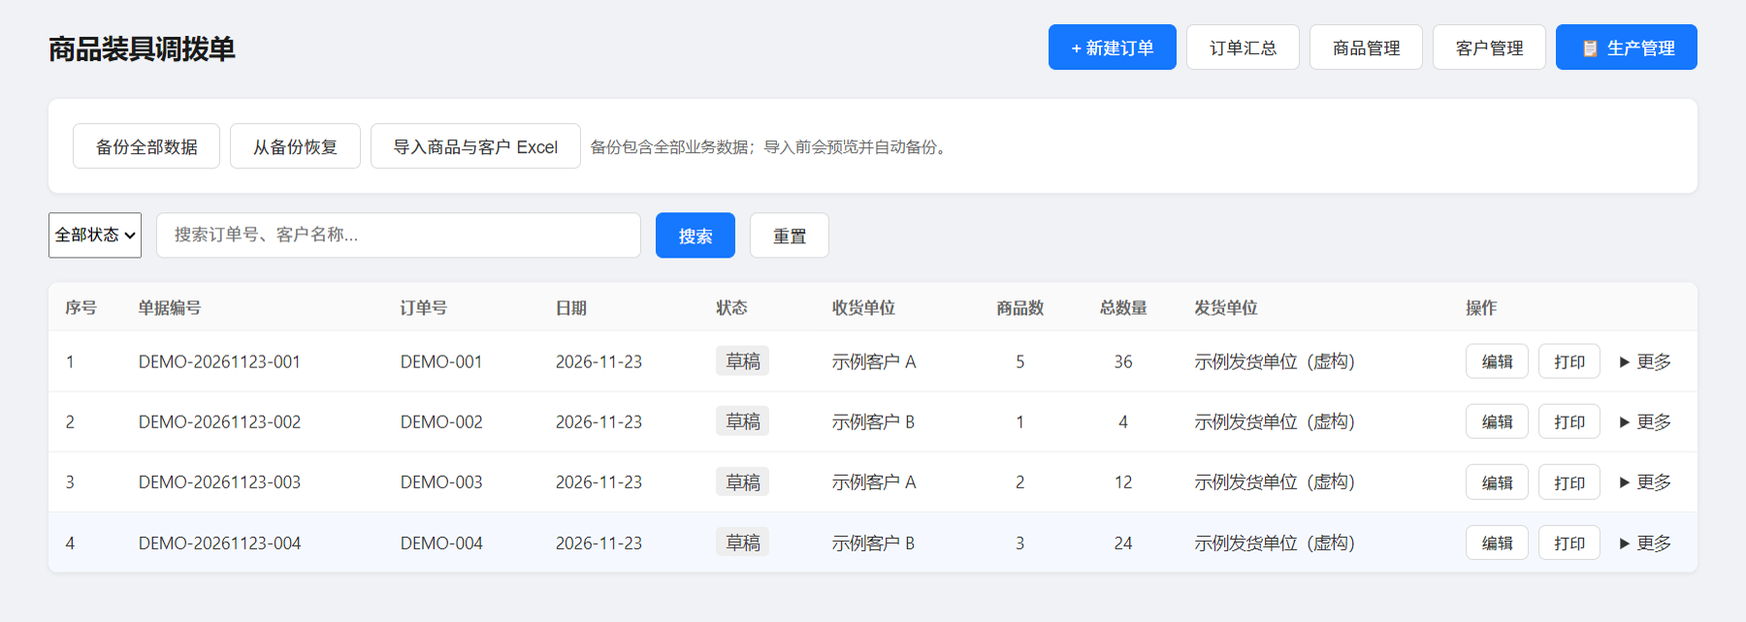
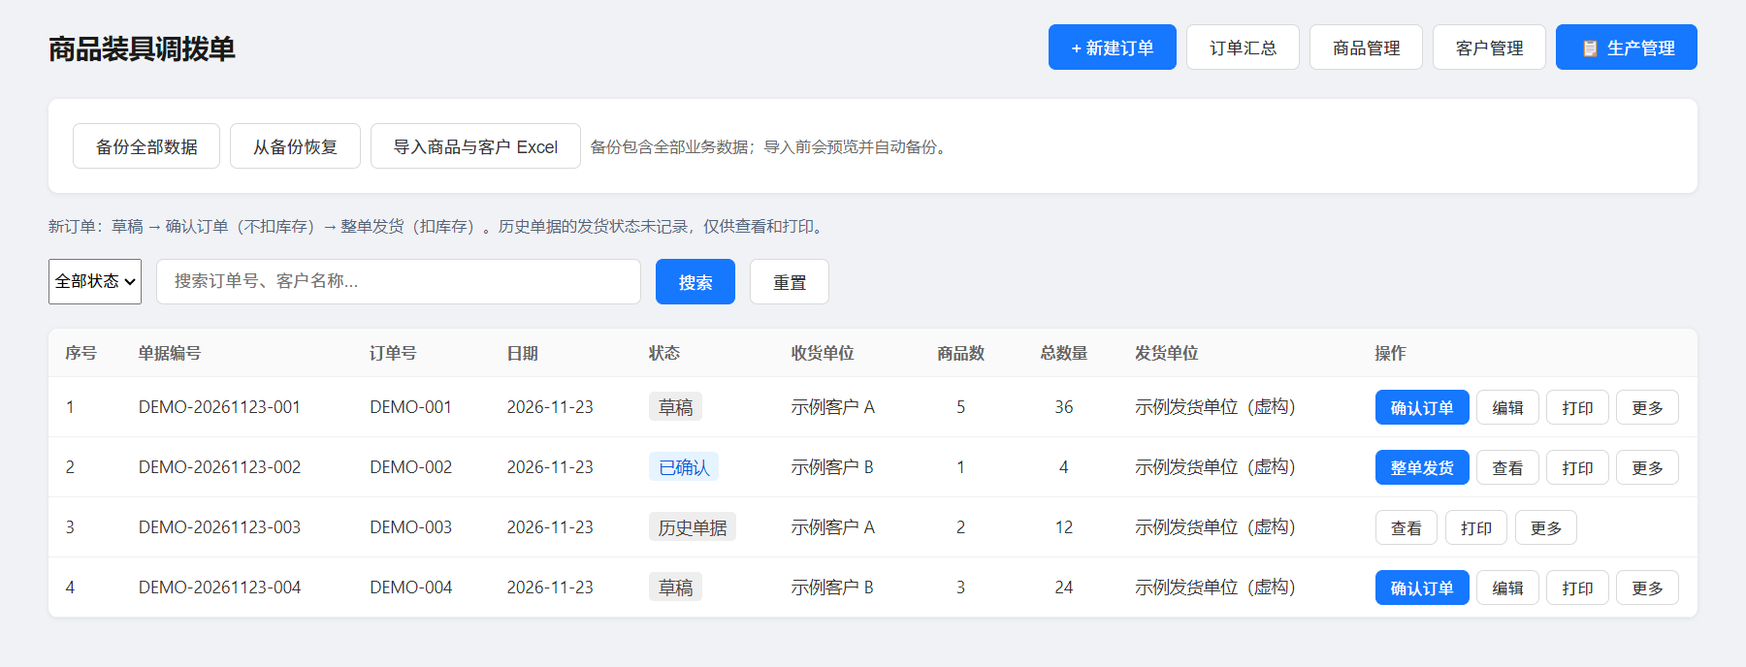
fix: show full order details and make status actions visible

diff --git a/src/pages/OrderList.tsx b/src/pages/OrderList.tsx
@@ -1,6 +1,7 @@
 import { orderStatusLabels } from '../../electron/order-status'
 import type { OrderStatus } from '../../electron/order-status'
 import OrderActionDialog from '../components/OrderActionDialog'
+import OrderMoreDialog from '../components/OrderMoreDialog'
 import React, { useEffect, useState, useCallback } from 'react'
 import { useNavigate } from 'react-router-dom'
 import { fetchOrders, removeOrder } from '../utils/ipc'
@@ -16,6 +17,7 @@ const OrderList: React.FC = () => {
   const [search, setSearch] = useState('')
   const [statusFilter, setStatusFilter] = useState('')
   const [action, setAction] = useState<{ order: Order; target: OrderStatus | 'history' } | null>(null)
+  const [moreOrder, setMoreOrder] = useState<Order | null>(null)
   const [archive, setArchive] = useState(0)
   const [deleteTarget, setDeleteTarget] = useState<Order | null>(null)
 
@@ -85,6 +87,7 @@ const OrderList: React.FC = () => {
 
       <BackupControls />
       {archive > 0 && <p className="error-message">保留了 {archive} 条旧版备用库存记录，尚未自动合并，请核对后通过生产库存的期初/入库操作录入。在用库存与订单发货均以生产库存为准。</p>}
+      <p className="order-list-guide">新订单：草稿 → 确认订单（不扣库存）→ 整单发货（扣库存）。历史单据的发货状态未记录，仅供查看和打印。</p>
       {error && <div className="error-message">{error}</div>}
 
       <div className="search-bar">
@@ -103,6 +106,7 @@ const OrderList: React.FC = () => {
           className="btn"
           onClick={() => {
             setSearch('')
+            setStatusFilter('')
             loadOrders()
           }}
         >
@@ -130,7 +134,7 @@ const OrderList: React.FC = () => {
               <th style={{ width: 80, textAlign: 'center' }}>商品数</th>
               <th style={{ width: 90, textAlign: 'center' }}>总数量</th>
               <th>发货单位</th>
-              <th style={{ width: 200 }}>操作</th>
+              <th style={{ width: 280 }}>操作</th>
             </tr>
           </thead>
           <tbody>
@@ -145,10 +149,12 @@ const OrderList: React.FC = () => {
                 <td style={{ textAlign: 'center' }}>{order.totalQuantity ?? 0}</td>
                 <td>{order.sender || '-'}</td>
                 <td className="actions-cell">
-                  <div className="btn-group">
+                  <div className="btn-group order-row-actions">
+                    {order.status === 'draft' && <button className="btn btn-sm btn-primary" data-order-primary-action onClick={() => setAction({ order, target: 'confirmed' })}>确认订单</button>}
+                    {order.status === 'confirmed' && <button className="btn btn-sm btn-primary" data-order-primary-action onClick={() => setAction({ order, target: 'shipped' })}>整单发货</button>}
                     <button
                       className="btn btn-sm"
-                      onClick={() => navigate(`/orders/${order.id}`)}
+                      onClick={() => navigate(order.status === 'draft' ? `/orders/${order.id}` : `/orders/${order.id}/view`)}
                     >
                       {order.status === 'draft' ? '编辑' : '查看'}
                     </button>
@@ -158,14 +164,7 @@ const OrderList: React.FC = () => {
                     >
                       打印
                     </button>
-                    <details className="order-more-actions"><summary>更多</summary><div>
-                      <button className="btn btn-sm" onClick={() => navigate('/orders/new', { state: { copyFrom: order.id } })}>复制</button>
-                      {order.status === 'draft' && <button className="btn btn-sm" onClick={() => setAction({ order, target: 'confirmed' })}>确认订单</button>}
-                      {order.status === 'confirmed' && <><button className="btn btn-sm" onClick={() => setAction({ order, target: 'draft' })}>退回草稿</button><button className="btn btn-sm" onClick={() => setAction({ order, target: 'shipped' })}>整单发货</button></>}
-                      {['draft','confirmed','shipped'].includes(order.status) && <button className="btn btn-sm" onClick={() => setAction({ order, target: 'voided' })}>作废</button>}
-                      <button className="btn btn-sm" onClick={() => setAction({ order, target: 'history' })}>状态记录</button>
-                      {order.status === 'draft' && <button className="btn btn-sm btn-danger" onClick={() => setDeleteTarget(order)}>删除草稿</button>}
-                    </div></details>
+                    <button className="btn btn-sm order-more-trigger" aria-haspopup="dialog" aria-label={`更多操作 ${order.documentNo || order.orderNo}`} onClick={() => setMoreOrder(order)}>更多</button>
                   </div>
                 </td>
               </tr>
@@ -174,6 +173,10 @@ const OrderList: React.FC = () => {
         </table>
       )}
 
+      {moreOrder && <OrderMoreDialog order={moreOrder} onClose={() => setMoreOrder(null)}
+        onCopy={() => { setMoreOrder(null); navigate('/orders/new', { state: { copyFrom: moreOrder.id } }) }}
+        onAction={target => { setMoreOrder(null); setAction({ order: moreOrder, target }) }}
+        onDelete={() => { setMoreOrder(null); setDeleteTarget(moreOrder) }} />}
       {action && <OrderActionDialog order={action.order} action={action.target} onClose={() => setAction(null)} onDone={() => { setAction(null); void loadOrders(search) }} />}
       {deleteTarget && (
         <ConfirmDialog

diff --git a/src/pages/OrderDetail.tsx b/src/pages/OrderDetail.tsx
@@ -1,0 +1,52 @@
+import { useCallback, useEffect, useState, useRef } from 'react'
+import { useNavigate, useParams } from 'react-router-dom'
+import type { Order, OrderItem } from '../types'
+import type { OrderStatus } from '../../electron/order-status'
+import { fetchOrderById } from '../utils/ipc'
+import { getPrintErrorMessage } from '../../electron/print-profile'
+import OrderActionDialog from '../components/OrderActionDialog'
+import OrderStatusPanel from '../components/OrderStatusPanel'
+
+type Detail = Order & { items: OrderItem[] }
+const fields: [keyof Order, string][] = [
+  ['documentNo','单据编号'],['orderNo','订单号'],['date','日期'],['receiver','收货单位'],
+  ['receiverContact','收货联系人'],['receiverPhone','收货电话'],['receiverAddress','收货地址'],
+  ['sender','发货单位'],['senderPhone','发货电话'],['warehouse','发货仓库'],['maker','制单人'],
+  ['carrierName','承运人'],['carrierVehicle','车牌号'],['outTime','出库时间'],['tonnage','吨位'],['mileage','里程'],['reviewer','审核人'],
+]
+export default function OrderDetail() {
+  const { id } = useParams<{ id: string }>()
+  const navigate = useNavigate()
+  const [order, setOrder] = useState<Detail | null>(null)
+  const [loading, setLoading] = useState(true)
+  const [error, setError] = useState('')
+  const request = useRef(0)
+  const [action, setAction] = useState<OrderStatus | 'history' | null>(null)
+  const load = useCallback(async () => {
+    const current = ++request.current
+    setError(''); setLoading(true)
+    try { const data = await fetchOrderById(Number(id)); if (!data) throw new Error('订单不存在'); if (current === request.current) setOrder(data) }
+    catch (error) { if (current === request.current) { setError(getPrintErrorMessage(error)); setOrder(null) } }
+    finally { if (current === request.current) setLoading(false) }
+  }, [id])
+  useEffect(() => { void load(); return () => { request.current++ } }, [load])
+  if (loading) return <div className="page-container"><div className="loading">加载单据…</div></div>
+  if (!order) return <div className="page-container"><p role="alert" className="error-message">{error}</p><button className="btn" onClick={() => navigate('/')}>返回列表</button><button className="btn" onClick={() => void load()}>重试</button></div>
+  const total = order.items.reduce((sum,item) => sum + item.amount, 0)
+  return <div className="page-container" data-testid="order-detail">
+    <div className="page-header"><div><h1>订单详情</h1><p className="order-document-number">{order.documentNo || order.orderNo}</p></div>
+      <div className="btn-group"><button className="btn" onClick={() => navigate('/')}>返回列表</button><button className="btn" onClick={() => navigate(`/orders/${order.id}/print`)}>打印</button><button className="btn" onClick={() => navigate('/orders/new', { state: { copyFrom: order.id } })}>复制为新草稿</button></div>
+    </div>
+    <OrderStatusPanel status={order.status} />
+    <div className="order-state-actions">
+      {order.status === 'draft' && <><button className="btn btn-primary" data-order-primary-action onClick={() => setAction('confirmed')}>确认订单</button><button className="btn" onClick={() => navigate(`/orders/${order.id}`)}>编辑草稿</button></>}
+      {order.status === 'confirmed' && <><button className="btn btn-primary" data-order-primary-action onClick={() => setAction('shipped')}>整单发货</button><button className="btn" onClick={() => setAction('draft')}>退回草稿</button></>}
+      {['draft','confirmed','shipped'].includes(order.status) && <button className="btn btn-danger" onClick={() => setAction('voided')}>{order.status === 'shipped' ? '退货并作废' : '作废订单'}</button>}
+      <button className="btn" onClick={() => setAction('history')}>状态记录</button>
+    </div>
+    <section className="card order-detail-section"><h2>开单与收发货信息</h2><dl className="order-detail-fields">{fields.map(([key,label]) => <div key={key}><dt>{label}</dt><dd>{String(order[key] || '—')}</dd></div>)}</dl></section>
+    <section className="card order-detail-section"><h2>商品明细 · {order.items.length} 项</h2><div className="order-detail-table-scroll"><table className="data-table order-detail-items"><thead><tr><th>商品编码</th><th>商品名称</th><th>规格</th><th>箱规</th><th>单位</th><th>数量</th><th>单价</th><th>金额</th><th>备注</th></tr></thead><tbody>{order.items.map(item => <tr key={item.id}><td>{item.productCode || '—'}</td><td>{item.productName}</td><td>{item.specification || '—'}</td><td>{item.packageSpec || '—'}</td><td>{item.unit}</td><td>{item.quantity}</td><td>{item.price.toFixed(2)}</td><td>{item.amount.toFixed(2)}</td><td>{item.remark || '—'}</td></tr>)}</tbody></table></div>{!order.items.length && <p>暂无商品明细</p>}<p className="order-detail-total">金额合计：¥{total.toFixed(2)}</p></section>
+    <section className="card order-detail-section"><h2>单据备注</h2><p className="order-detail-remark">{order.remark || '暂无备注'}</p></section>
+    {action && <OrderActionDialog order={order} action={action} onClose={() => setAction(null)} onDone={() => { setAction(null); void load() }} />}
+  </div>
+}

diff --git a/src/components/OrderActionDialog.tsx b/src/components/OrderActionDialog.tsx
@@ -1,3 +1,4 @@
+import OrderDialog from './OrderDialog'
 import { useEffect, useRef, useState } from 'react'
 import type { Order, OrderItem } from '../types'
 import { orderStatusLabels } from '../../electron/order-status'
@@ -35,23 +36,25 @@ export default function OrderActionDialog({ order, action, onClose, onDone }: {
     } catch (error) { setError(getPrintErrorMessage(error)) }
     finally { busyRef.current = false; setBusy(false) }
   }
+  const actionTitle = action === 'history' ? '状态记录' : ({ confirmed: '确认订单', draft: '退回草稿', shipped: '整单发货', voided: order.status === 'shipped' ? '退货并作废' : '作废订单' } as Partial<Record<OrderStatus, string>>)[action] || '订单操作'
+  const submitLabel = action === 'confirmed' ? '确认订单（不扣库存）' : action === 'shipped' ? '确认发货并扣库存' : action === 'voided' && order.status === 'shipped' ? '确认退回并作废' : '确认操作'
   const disabled = busy || !ready || (action === 'shipped' && (!items.length || items.some(item => !allocations[item.id])))
     || (action === 'voided' && (!reason.trim() || (order.status === 'shipped' && !returned)))
-  return <div className="modal-overlay no-print"><div className="modal-dialog order-action-dialog" role="dialog" aria-modal="true" aria-labelledby="order-action-title">
-    <h2 id="order-action-title">{action === 'history' ? '状态记录' : `订单：${orderStatusLabels[action]}`} · {order.documentNo}</h2>
+  return <OrderDialog title={`${actionTitle} · ${order.documentNo}`} onClose={onClose} busy={busy} className="order-action-dialog">
+    <p>当前状态：<span className={`order-status status-${order.status}`}>{orderStatusLabels[order.status]}</span></p>
     {action === 'confirmed' && <p>确认后锁定明细，此时不扣库存。发货前仍可退回草稿修改。</p>}
     {action === 'draft' && <p>退回草稿后可以修改订单，库存不变。</p>}
     {action === 'shipped' && <><p>为每行商品选择实际发出的成品库存。整单发货会扣减库存并记录流水，任一行失败整单回滚。</p>
       {items.map(item => <label className="form-field" key={item.id}>{item.productName} · {item.quantity} {item.unit}
-        <select aria-label={`发货库存-${item.id}`} value={allocations[item.id] || ''} onChange={event => setAllocations(previous => ({ ...previous, [item.id]: Number(event.target.value) }))}>
+        <select aria-label={`发货库存-${item.id}`} value={allocations[item.id] || ''} disabled={busy} onChange={event => setAllocations(previous => ({ ...previous, [item.id]: Number(event.target.value) }))}>
           <option value="">请选择成品库存</option>{stocks.filter(stock => stock.quantity > 0 && (!stock.product_code || stock.product_code === item.productCode) && (!stock.unit || !item.unit || stock.unit === item.unit)).map(stock => <option key={stock.id} value={stock.id}>{stock.product_name} · 库存 {stock.quantity} {stock.unit} · 批次 #{stock.id}</option>)}
         </select>
       </label>)}</>}
-    {action === 'voided' && <><label className="form-field">作废原因<input aria-label="作废原因" value={reason} onChange={event => setReason(event.target.value)} maxLength={300} /></label>
-      {order.status === 'shipped' && <label><input type="checkbox" checked={returned} onChange={event => setReturned(event.target.checked)} />确认整单货物已经退回，恢复原发货库存；未退回请勿作废。</label>}
+    {action === 'voided' && <><label className="form-field">作废原因<input aria-label="作废原因" disabled={busy} value={reason} onChange={event => setReason(event.target.value)} maxLength={300} /></label>
+      {order.status === 'shipped' && <label><input type="checkbox" disabled={busy} checked={returned} onChange={event => setReturned(event.target.checked)} />确认整单货物已经退回，恢复原发货库存；未退回请勿作废。</label>}
     </>}
     {action === 'history' && <div>{events.length ? events.map((event, index) => <p key={index}>{new Date(event.createdAt).toLocaleString()} · {orderStatusLabels[event.fromStatus as OrderStatus]} → {orderStatusLabels[event.toStatus as OrderStatus]} {event.reason}</p>) : <p>尚无状态变更记录。历史单据不会推断以前的发货或库存。</p>}</div>}
     {error && <div className="error-message" role="alert">{error}</div>}
-    <div className="modal-footer"><button className="btn" disabled={busy} onClick={onClose}>取消</button>{action !== 'history' && <button className="btn btn-primary" disabled={disabled} onClick={() => void submit()}>{busy ? '处理中…' : '确认操作'}</button>}</div>
-  </div></div>
+    <div className="modal-footer"><button className="btn" disabled={busy} onClick={onClose}>取消</button>{action !== 'history' && <button className="btn btn-primary" disabled={disabled} onClick={() => void submit()}>{busy ? '处理中…' : submitLabel}</button>}</div>
+  </OrderDialog>
 }

diff --git a/src/index.css b/src/index.css
@@ -967,6 +967,35 @@ body {
 
 .order-status { padding: 3px 8px; border-radius: 4px; white-space: nowrap; background: #eee; color: #444; }
 .status-confirmed { background: #e6f4ff; color: #0958d9; } .status-shipped { background: #f0fff0; color: #267a30; } .status-voided { color: #9e2525; }
-.order-more-actions { position: relative; white-space: nowrap; } .order-more-actions summary { cursor: pointer; padding: 4px 8px; }
-.order-more-actions > div { position:absolute; right:0; top:100%; z-index:40; display:flex; flex-direction:column; gap:5px; padding:8px; background:white; border:1px solid #ccc; box-shadow:0 4px 12px #0002; }
 .order-action-dialog { width: min(760px,95vw); max-height:90vh; overflow:auto; } .order-action-dialog h2 { font-size:18px; } .order-action-dialog p { margin:12px 0; }
+
+.order-list-guide { color: #536479; font-size: 13px; margin: 16px 0; line-height: 1.7; }
+.order-row-actions { flex-wrap: wrap; gap: 6px; }
+.order-status-panel { padding: 16px 20px; margin: 0 0 18px; border: 1px solid #cbdcf2; border-radius: 8px; background: #f4f8ff; }
+.order-status-heading { display: flex; gap: 12px; align-items: center; font-weight: 600; }
+.order-status-panel p { margin: 10px 0 0; line-height: 1.7; color: #3f526a; }
+.order-status-panel .order-status-note { color: #74531c; font-size: 13px; }
+.order-status-steps { display: flex; gap: 24px; flex-wrap: wrap; list-style: none; padding: 0; margin: 14px 0 0; font-size: 13px; color: #657489; }
+.order-status-steps li { display: flex; gap: 6px; align-items: center; }
+.order-status-steps li span { width: 22px; height: 22px; border-radius: 50%; display: inline-flex; align-items: center; justify-content: center; background: #e4eaf3; }
+.order-status-steps [aria-current="step"] { font-weight: 600; color: #0958d9; }
+.order-status-steps [aria-current="step"] span { background: #1677ff; color: white; }
+.order-state-actions { display: flex; gap: 10px; flex-wrap: wrap; margin: 0 0 20px; }
+.order-document-number { margin-top: 6px; color: #64748b; font-size: 13px; }
+.order-detail-section { margin-bottom: 18px; }
+.order-detail-section h2 { font-size: 17px; margin: 0 0 18px; }
+.order-detail-fields { display: grid; grid-template-columns: repeat(3, minmax(0, 1fr)); gap: 18px 24px; }
+.order-detail-fields dt { font-size: 12px; color: #68798d; margin-bottom: 6px; }
+.order-detail-fields dd { margin: 0; overflow-wrap: anywhere; line-height: 1.6; }
+.order-detail-table-scroll { overflow-x: auto; }
+.order-detail-items { min-width: 700px; box-shadow: none; }
+.order-detail-total { text-align: right; font-weight: 600; font-size: 18px; margin-top: 18px; }
+.order-detail-remark { white-space: pre-wrap; line-height: 1.7; }
+.order-dialog-overlay { padding: 16px; z-index: 2000; }
+.order-dialog { min-width: 0; width: 640px; max-width: calc(100vw - 32px); max-height: calc(100dvh - 32px); }
+.order-dialog h2 { font-size: 18px; margin-bottom: 18px; overflow-wrap: anywhere; }
+.order-operation-grid { display: grid; grid-template-columns: repeat(2, minmax(0, 1fr)); gap: 10px; margin: 18px 0; }
+@media (max-width: 760px) {
+  .order-detail-fields { grid-template-columns: repeat(2, minmax(0, 1fr)); }
+  .order-status-steps { gap: 10px; }
+}

diff --git a/src/components/OrderDialog.tsx b/src/components/OrderDialog.tsx
@@ -1,0 +1,31 @@
+import { useEffect, useId, useRef } from 'react'
+import type { ReactNode } from 'react'
+import { createPortal } from 'react-dom'
+
+export default function OrderDialog({ title, children, onClose, busy = false, className = '' }: {
+  title: string; children: ReactNode; onClose: () => void; busy?: boolean; className?: string
+}) {
+  const titleId = useId()
+  const dialog = useRef<HTMLDivElement>(null)
+  const heading = useRef<HTMLHeadingElement>(null)
+  useEffect(() => {
+    const previous = document.activeElement as HTMLElement | null
+    const overflow = document.body.style.overflow
+    document.body.style.overflow = 'hidden'
+    heading.current?.focus()
+    return () => { document.body.style.overflow = overflow; if (previous?.isConnected) previous.focus() }
+  }, [])
+  return createPortal(<div className="modal-overlay order-dialog-overlay no-print" onKeyDown={event => {
+    if (event.key === 'Escape' && !busy) { event.stopPropagation(); onClose() }
+    if (event.key === 'Tab') {
+      const controls = Array.from(dialog.current?.querySelectorAll<HTMLElement>('button:not(:disabled), input:not(:disabled), select:not(:disabled), textarea:not(:disabled), [tabindex="0"]') || [])
+      const first = controls[0], last = controls[controls.length - 1]
+      if (!first) { event.preventDefault(); return }
+      if (event.shiftKey && (document.activeElement === first || document.activeElement === heading.current)) { event.preventDefault(); last.focus() }
+      else if (!event.shiftKey && (document.activeElement === last || document.activeElement === heading.current)) { event.preventDefault(); first.focus() }
+    }
+  }}><div ref={dialog} className={`modal-dialog order-dialog ${className}`} role="dialog" aria-modal="true" aria-labelledby={titleId}>
+    <h2 ref={heading} tabIndex={-1} id={titleId}>{title}</h2>
+    {children}
+  </div></div>, document.body)
+}

diff --git a/src/components/OrderStatusPanel.tsx b/src/components/OrderStatusPanel.tsx
@@ -1,0 +1,18 @@
+import type { OrderStatus } from '../../electron/order-status'
+import { orderStatusLabels } from '../../electron/order-status'
+
+const explanations: Record<OrderStatus, string> = {
+  draft: '尚未确认，可以修改。保存只保留草稿；核对后点击“确认订单”，此时不扣库存。',
+  confirmed: '已确认并锁定明细，尚未扣库存。实际发出时点击“整单发货”选择成品批次；需要修改可先“退回草稿”。',
+  shipped: '已完成整单发货，库存已扣减。仅在整单实物退回后，才能通过“退货并作废”恢复原批次库存。',
+  voided: '单据已作废，不能再次发货或修改。可以查看状态记录；如需重新开单，请复制为新草稿。',
+  legacy: '升级前的历史单据，发货状态未记录，不能判断为草稿或已发货。保留原内容供查看、打印；不追溯扣库存。',
+}
+export default function OrderStatusPanel({ status }: { status: OrderStatus }) {
+  return <section className="order-status-panel" aria-label="当前订单状态">
+    <div className="order-status-heading">当前状态 <span className={`order-status status-${status}`}>{orderStatusLabels[status]}</span></div>
+    <p>{explanations[status]}</p>
+    {status === 'legacy' ? <p className="order-status-note">如需重新开单，可复制为新草稿并生成新单号。已经发出的历史订单请勿再次执行发货扣库。</p>
+      : <ol className="order-status-steps" aria-label="订单流程">{(['draft','confirmed','shipped'] as const).map((step,index) => <li key={step} aria-current={status === step ? 'step' : undefined}><span>{index + 1}</span>{orderStatusLabels[step]}{index === 0 ? '（可编辑）' : index === 1 ? '（不扣库）' : '（已扣库）'}</li>)}</ol>}
+  </section>
+}

diff --git a/src/pages/OrderEdit.tsx b/src/pages/OrderEdit.tsx
@@ -1,10 +1,11 @@
 import React, { useEffect, useState, useCallback, useRef } from 'react'
-import { useParams, useNavigate, useLocation, useBlocker } from 'react-router-dom'
+import { useParams, useNavigate, useLocation, useBlocker, Navigate } from 'react-router-dom'
 import {
   fetchOrderById, saveOrderWithItems,
   searchProducts, searchCustomers, getCustomerPrices,
   generateDocumentNo,
 } from '../utils/ipc'
+import OrderStatusPanel from '../components/OrderStatusPanel'
 import type { Order, OrderItem, Product, Customer, CustomerPrice } from '../types'
 
 interface EditableItem {
@@ -366,10 +367,7 @@ const OrderEdit: React.FC = () => {
     )
   }
 
-  if (locked) return <div className="page-container"><h1>只读单据</h1><p>此订单已确认、发货、作废或属于历史单据，不能直接修改。可在列表中退回草稿（未发货时），或复制为新订单。</p>
-    <button className="btn" onClick={() => navigate('/')}>返回列表</button>
-    <button className="btn" onClick={() => navigate(`/orders/${id}/print`)}>打印</button>
-    <button className="btn" onClick={() => navigate('/orders/new', { state: { copyFrom: Number(id) } })}>复制为新草稿</button></div>
+  if (locked) return <Navigate to={`/orders/${id}/view`} replace />
 
   return (
     <div className="page-container">
@@ -390,6 +388,8 @@ const OrderEdit: React.FC = () => {
 
       {error && <div className="error-message">{error}</div>}
 
+      <OrderStatusPanel status="draft" />
+      {!isNew && <div className="order-state-actions"><button className="btn" onClick={() => navigate(`/orders/${id}/view`)}>查看详情与状态操作</button></div>}
       <div className="form-container">
         <div className="form-section order-essential">
           <h2>客户与开单信息</h2>

diff --git a/src/components/OrderMoreDialog.tsx b/src/components/OrderMoreDialog.tsx
@@ -1,0 +1,22 @@
+import type { Order } from '../types'
+import type { OrderStatus } from '../../electron/order-status'
+import OrderDialog from './OrderDialog'
+import OrderStatusPanel from './OrderStatusPanel'
+
+export default function OrderMoreDialog({ order, onClose, onCopy, onAction, onDelete }: {
+  order: Order; onClose: () => void; onCopy: () => void;
+  onAction: (action: OrderStatus | 'history') => void; onDelete: () => void
+}) {
+  return <OrderDialog title={`订单操作 · ${order.documentNo || order.orderNo}`} onClose={onClose} className="order-more-dialog">
+    <OrderStatusPanel status={order.status} />
+    <div className="order-operation-grid">
+      <button className="btn" onClick={onCopy}>复制为新草稿</button>
+      <button className="btn" onClick={() => onAction('history')}>状态记录</button>
+      {order.status === 'draft' && <button className="btn btn-primary" onClick={() => onAction('confirmed')}>确认订单</button>}
+      {order.status === 'confirmed' && <><button className="btn btn-primary" onClick={() => onAction('shipped')}>整单发货</button><button className="btn" onClick={() => onAction('draft')}>退回草稿</button></>}
+      {['draft','confirmed','shipped'].includes(order.status) && <button className="btn btn-danger" onClick={() => onAction('voided')}>{order.status === 'shipped' ? '退货并作废' : '作废订单'}</button>}
+      {order.status === 'draft' && <button className="btn btn-danger" onClick={onDelete}>删除草稿</button>}
+    </div>
+    <div className="modal-footer"><button className="btn" onClick={onClose}>关闭</button></div>
+  </OrderDialog>
+}

diff --git a/src/App.tsx b/src/App.tsx
@@ -2,6 +2,7 @@ import React from 'react'
 import { Route, Navigate, createHashRouter, createRoutesFromElements, RouterProvider } from 'react-router-dom'
 import OrderList from './pages/OrderList'
 import OrderEdit from './pages/OrderEdit'
+import OrderDetail from './pages/OrderDetail'
 import OrderPrint from './pages/OrderPrint'
 import ProductManager from './pages/ProductManager'
 import CustomerManager from './pages/CustomerManager'
@@ -11,6 +12,7 @@ const router = createHashRouter(createRoutesFromElements(<>
   <Route path="/" element={<OrderList />} />
   <Route path="/orders/new" element={<OrderEdit />} />
   <Route path="/orders/:id" element={<OrderEdit />} />
+  <Route path="/orders/:id/view" element={<OrderDetail />} />
   <Route path="/orders/:id/print" element={<OrderPrint />} />
   <Route path="/product-manager" element={<ProductManager />} />
   <Route path="/customer-manager" element={<CustomerManager />} />

diff --git a/src/pages/OrderPrint.tsx b/src/pages/OrderPrint.tsx
@@ -220,7 +220,7 @@ const OrderPrint: React.FC = () => {
     <div className="print-page-wrapper">
       <div className="no-print toolbar">
         <button className="btn" disabled={printing} onClick={() => navigate('/')}>← 返回列表</button>
-        <button className="btn" disabled={printing} onClick={() => navigate(`/orders/${id}`)}>编辑订单</button>
+        <button className="btn" disabled={printing} onClick={() => navigate(order.status === 'draft' ? `/orders/${id}` : `/orders/${id}/view`)}>{order.status === 'draft' ? '编辑草稿' : '查看详情与状态'}</button>
         <button className="btn print-settings-button" disabled={printing || !settingsReady} onClick={() => setDialogMode('settings')}>打印规格…</button>
         <button className="btn btn-primary" disabled={printing || !settingsReady} onClick={openPrintDialog}>
           {printing ? '正在准备 / 打印…' : '打印 (Ctrl+P)'}

diff --git a/docs/workflow.md b/docs/workflow.md
@@ -8,11 +8,13 @@
 
 ## 确认、发货与作废
 
-1. 草稿核对完成，在“更多”中确认，确认不扣库存。
+1. 草稿核对完成，点击列表中直接显示的“确认订单”，确认不扣库存。也可在详情页顶部操作。
 2. 实物备齐后选择“发货”，为每条明细明确选择成品库存批次。带商品编码的批次必须与明细编码一致，单位必须一致；无编码的旧批次由操作人核对名称和规格。
 3. 整单库存足够才提交，库存、流水、生产状态、订单状态同时生效；中途失败全部回滚。
 4. 未发货取消可作废并填写原因；已发货只有在整单货物实际退回后，才勾选退回确认并作废，恢复到原批次一次。重复发货、重复作废会被拒绝。
-5. “状态记录”查看确认、退回草稿、发货和作废的时间及原因。
+5. “状态记录”查看确认、退回草稿、发货和作废的时间及原因。“更多”会打开独立操作窗口，包含复制、作废、删除草稿等辅助操作。
+
+列表的“查看”打开完整详情，顶部显示当前状态与库存说明，下方保留原单的收发货信息、商品快照及备注。“历史单据”表示旧版没有记录草稿或发货状态，不能从该标签推断实际是否发过货；已经发出的历史单据不要复制后再次发货扣库。
 
 当前不支持拆分批次、分批发货和部分退货。每条明细从一个批次扣减全部数量。关联新订单的生产成品应从订单入口发货，避免库存出库和订单发货重复记账。
 

diff --git a/docs/order-ui-fix.md b/docs/order-ui-fix.md
@@ -1,0 +1,9 @@
+# v1.2.1 订单操作修复
+
+目标：菜单不被表格裁切，查看页完整展示快照，用户能直接理解并操作当前状态。
+
+- [x] 更多改用独立、可滚动、有键盘焦点管理的操作窗口；表格底行、小窗口均可操作。
+- [x] 列表直接展示确认订单/整单发货；历史单据说明升级前发货状态未记录。
+- [x] 新增完整订单详情页，共用状态说明；详情直接确认、退回草稿、发货、作废和查看记录。
+- [x] 原编辑入口对非草稿跳转详情；草稿标明保存与确认的区别。保持原库存及历史单据规则。
+- [x] Electron 验证底行操作、历史快照内容、新订单确认与退回；同步原项目、重新打包、公开版文件检查。线上验证由 GitHub CI 运行。
